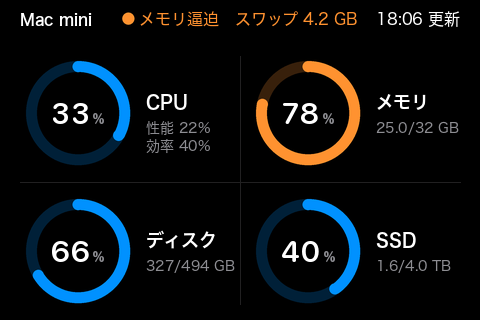
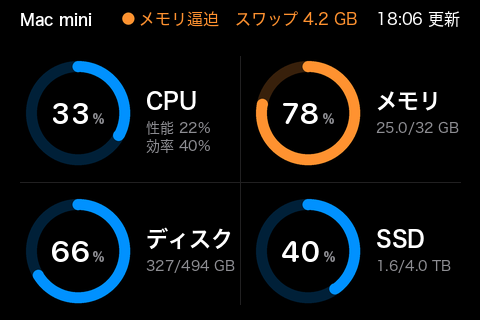
feat(monitor): 3.5 インチの横置きの名前（CPU・メモリなど）を 18→22 ピクセルにする
サーバーの状態・この Mac の状態の 2 画面とも LANDSCAPE で描くので、両方に効く。
22 は名前を左へ寄せずに入る最大の大きさ（ユーザーが見本で選んだ。docs/handover.md §4-21）。
README の横置きの 5 枚を同じ時刻で描き直した（monitor-jobs.png は §4-17 の見出しにもそろった）。
あわせて、再起動の直後にスワップの累計が 0 だと落ちるテストを、vm_stat と突き合わせる形に直した。

diff --git a/claude_usage_display/monitor_screen.py b/claude_usage_display/monitor_screen.py
@@ -70,9 +70,11 @@ LANDSCAPE = _Layout(
     size=(480, 320), inset=20, title_baseline=25, pill=(116, 4, 364, 34), status_baseline=25, dot_y=18.5,
     status_size=18, alert_size=18, dot_radius=6, stamp_size=16, tall_pill=None, tall_baselines=None,
     # 数字をリングの中に入れ、名前としきい値をリングの右で縦の中ほどに置く（2026-10-15、ユーザーが見本で選んだ）。
-    # 名前・しきい値は縦置きと同じ大きさ（18・14）。左の列の「しきい値 80%」（幅 92）の右端は 238 で、
-    # 区切り線（240）の 2 ピクセル手前。しきい値は 2 桁の整数まで収まる
-    cells=((20, 44), (250, 44), (20, 182), (250, 182)), ring=(58, 69, 52, 11), label=(126, 65, "ls", 18),
+    # 左の列の「しきい値 80%」（14 ピクセルで幅 92）の右端は 238 で、区切り線（240）の 2 ピクセル手前。
+    # しきい値は 2 桁の整数まで収まる。名前は、実機を見たユーザーの指示で 18→22 にした（2026-10-27、見本で選んだ）。
+    # 左へ寄せずに入る最大の大きさで、左の列の「ディスク」（幅 87）の右端は 233、右の列の「スワップ」の右端は 463
+    # （その下の「しきい値 90%」の右端 468 より内側）
+    cells=((20, 44), (250, 44), (20, 182), (250, 182)), ring=(58, 69, 52, 11), label=(126, 65, "ls", 22),
     number=(58, 80, 30, 14, True), threshold=(126, 89, "ls", 14), dividers=((240, 56, 240, 304), (20, 182, 460, 182)))
 PORTRAIT = _Layout(
     size=(320, 480), inset=16, title_baseline=26, pill=(16, 38, 304, 70), status_baseline=60, dot_y=53.5,

diff --git a/tests/test_local_monitor.py b/tests/test_local_monitor.py
@@ -1,3 +1,5 @@
+import re
+import subprocess
 import unittest
 from datetime import datetime, timedelta, timezone
 
@@ -125,9 +127,14 @@ class CpuTest(unittest.TestCase):
         ticks = lm.cpu_ticks(reader_host)
         self.assertGreater(len(ticks), 0)
         self.assertTrue(all(len(t) == 4 for t in ticks))
-        first, second = lm.swap_pages(reader_host), lm.swap_pages(reader_host)
-        self.assertGreater(first, 0)
-        self.assertGreaterEqual(second, first)  # 起動後の累計なので減らない
+        # 起動後の累計なので、vm_stat の Swapins と Swapouts の合計をはさむ。再起動の直後は 0 のこともある
+        # （2026-10-27、macOS 27.2 への更新の後。0 より大きいと決めつけていたため落ちた）
+        first = lm.swap_pages(reader_host)
+        vm_stat = subprocess.run(["vm_stat"], capture_output=True, text=True, check=True).stdout
+        counted = sum(int(m) for m in re.findall(r"^Swap(?:ins|outs):\s+(\d+)\.", vm_stat, re.MULTILINE))
+        second = lm.swap_pages(reader_host)
+        self.assertLessEqual(first, counted)
+        self.assertLessEqual(counted, second)
 
 
 class ParseTest(unittest.TestCase):

diff --git a/tests/test_monitor_screen.py b/tests/test_monitor_screen.py
@@ -57,6 +57,15 @@ class MonitorScreenTest(unittest.TestCase):
         end = ms.LANDSCAPE.cells[0][0] + threshold_x + font(threshold_size, SMALL_WEIGHT).getlength("しきい値 85%")
         self.assertLess(end, ms.LANDSCAPE.dividers[0][0])
 
+    def test_landscape_long_labels_fit_their_cells(self):
+        # 2026-10-27 に名前を 18→22 ピクセルにした。左の列の名前は区切り線の手前、右の列の名前は
+        # その下の「しきい値 90%」より右へ出ない
+        label_x, _, _, label_size = ms.LANDSCAPE.label
+        threshold_x, _, _, threshold_size = ms.LANDSCAPE.threshold
+        width = max(font(label_size, 6).getlength(text) for text in ("ディスク", "スワップ"))
+        self.assertLess(ms.LANDSCAPE.cells[2][0] + label_x + width, ms.LANDSCAPE.dividers[0][0] - 4)
+        self.assertLessEqual(label_x + width, threshold_x + font(threshold_size, SMALL_WEIGHT).getlength("しきい値 90%"))
+
     def test_job_incidents_show_an_orange_dot_on_black(self):
         incidents = (sm.Incident("job", "nightly-backup", "直近の実行が失敗", None),)
         image = self.render(status(incidents=incidents))

diff --git a/docs/handover.md b/docs/handover.md
@@ -425,6 +425,14 @@ scripts/uninstall-launch-agent.sh                                 # 自動起動
 - **直したこと**: 失敗したときは、応答を受けた後の `time.monotonic()` から次の取得を決める。成功したときの 2 分ごとの間隔は変えていない。テスト `tests/test_runner.py` の `test_retry_after_counts_from_the_response` は、直す前のコードでは `1218.0 != 1219.3` で落ちる（189 件すべて通過）
 - サーバーの状態・この Mac の状態の常駐は、利用枠の API を呼ばないので関係しない
 
+### 4-21. 3.5 インチ 2 台の横置きの名前を 18→22 ピクセルにした（2026-10-27）
+
+- **経緯**: ユーザーの指示「3.5 インチモニター 2 台ともサークル右側の CPU、メモリなどの文字をもう少し大きくしたい」。2 台はどちらも `monitor_screen.LANDSCAPE` で描くので、その名前の大きさ（`label` の 4 つ目）だけを変えた。下の行（しきい値・量・性能と効率。14 ピクセル）と縦置きは変えていない
+- **見本**: いまの値で、18（いま）・21・22 ピクセルの 2 画面を描いて見せ、**ユーザーが 22 ピクセル（推奨）を選んだ**。22 は、名前を左へ寄せずに入る最大の大きさ。左の列の「ディスク」（W6 で幅 87）の右端は 233 で、区切り線（240）まで 7 ピクセル。右の列の「スワップ」の右端は 463 で、その下の「しきい値 90%」の右端（468）より内側。24 ピクセルにすると「ディスク」の右端が 241 になり区切り線に触れるので、名前と下の行をそろえて左へ寄せる必要があり、見本に入れなかった。名前の基準線（区画の 65）は変えていない
+- テスト `tests/test_monitor_screen.py` の `test_landscape_long_labels_fit_their_cells` を足した（左の列は区切り線の 4 ピクセルより手前、右の列は「しきい値 90%」の右端まで）
+- **README の画像**: 横置きの 5 枚（`monitor-normal`・`monitor-alert`・`monitor-jobs`・`local`・`local-warning`）を、前と同じ時刻（10-15 17:11・18:06）に固定して描き直した。18 ピクセルで描くといまの画像と 1 ピクセルも違わないことを確かめたうえで、22 ピクセルとの違いが名前のところだけであることを確かめた。`monitor-jobs.png` だけは、§4-17（`e430150`）で見出しの書き方を変えたときに作り直されておらず、「ジョブ障害 2 件」のままだったので、見出しも「ジョブ障害 2 件（nightly-backup ほか）」に変わった
+- **テストの直し**: 同じ日に macOS が 27.2 に上がって再起動した（14:10）後、`test_local_monitor` の `test_reads_this_mac` が落ちた。スワップの読み書きの累計（`swap_pages`）を「0 より大きい」と決めつけていたが、再起動の後にスワップを一度も使っていなかった（`vm_stat` の Swapins・Swapouts も 0）。読み方は正しかったので、`vm_stat` の合計を前後の 2 回の読み取りではさむ形に直した
+
 ## 5. 残っている作業（上から順に）
 
 1〜5 は 2026-10-05 に終えた（README.md、CLAUDE.md、requirements.txt と .gitignore、自動起動の作成と登録、git の初期化と push）。
